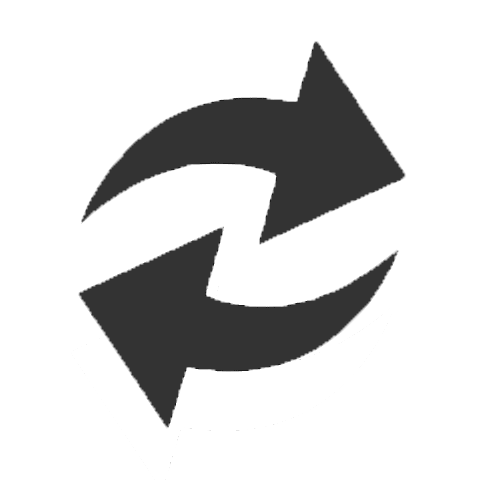
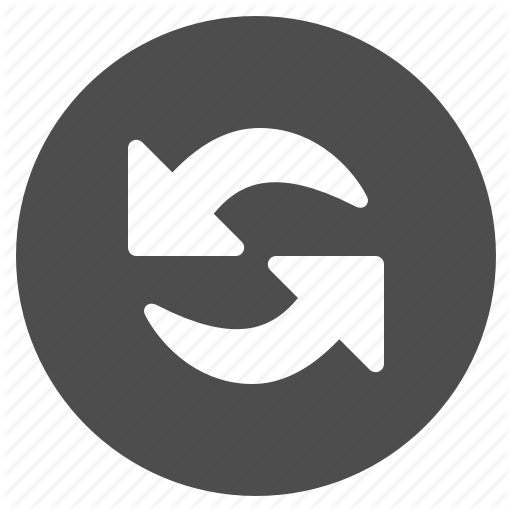
refactor: change refresh button

diff --git a/style.css b/style.css
@@ -53,7 +53,7 @@ justify-self: baseline;
   justify-self: center;
 }
 #upperRow {
-  width: 100%;
+  width: 90%;
   display: flex;
   flex-direction: row;
   align-items: center;
@@ -84,7 +84,7 @@ margin-left: 5%;
   height: 60px;
   border: 0;
   border-radius: 50%;
-  background-image: url("https://github.com/Elwa36s/momentum/blob/dev/assets/images/refresh1.png?raw=true"); 
+  background-image: url("https://raw.githubusercontent.com/Elwa36s/momentum/dev/assets/images/refresh1.png"); 
   background-size: contain;
   background-position: center center;
   background-repeat: no-repeat;
@@ -96,7 +96,7 @@ margin-left: 5%;
   height: 30px;
   border: 0;
   border-radius: 50%;
-  background-image: url("https://github.com/Elwa36s/momentum/blob/dev/assets/images/refresh1.png?raw=true"); 
+  background-image: url("https://raw.githubusercontent.com/Elwa36s/momentum/dev/assets/images/refresh.png"); 
   background-size: contain;
   background-position: center center;
   background-repeat: no-repeat;
